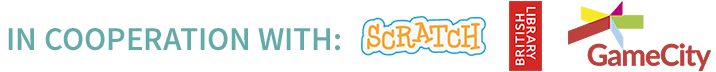
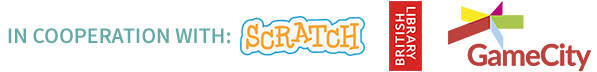
Text and Design Update

diff --git a/index2.html b/index2.html
@@ -109,26 +109,28 @@
       <!-- Main component for a primary marketing message or call to action -->
       <div class="row">
         <div class="col-md-12">
-          <h1><a id="about">ABOUT #AliceGameJam</a></h1>
+          <h1><a id="about">ABOUT</a></h1>
         </div>
         <div class="col-md-4">
+		  <h2>#AliceGameJam</h2>
+		  <p>Explore the world of Alice in Wonderland and her friends virtually with Pocket Code and Scratch at the #AliceGameJam during the Computer Science Education Week between <b>December 7th and December 13th 2015</b>. Create your own program about Alice and get the chance of being part of something bigger.</p>
           <h2>150 years of Alice in Wonderland</h2>
-          <p>Lewis Carroll’s Alice in Wonderland was published in 1865. Since then, the adventures of Alice, the White Rabbit and the other fabulous figures in the book have fascinated young and old for 150 years. Now, between the 7th and 13th of December 2015, the Alice Game Jam invites you to recreate the spirit of this magical world by creating fun new games about Alice and her friends.</p>
-		  <p>You don’t need any previous experience producing games or coding. Whether with Pocket Code on your Smartphone or with Scratch on your Computer you will learn programming easily in our tutorials and by exploring what others have created. You’ll then be able to share your own real game or animation with your friends and the whole world!</p>
-          <p>Alice follows a white rabbit into its hole and comes to a magical, imaginative, and exciting world. She experiences some gorgeous and thrilling adventures on her journey through this wonderland, meeting new and marvelous creatures like the Mad Hatter or the Cheshire Cat...</p>
+          <p>Lewis Carroll’s Alice in Wonderland was published in 1865. Since then, the adventures of Alice, the White Rabbit and the other fabulous figures in the book have fascinated young and old for 150 years. Now, between the <b>7th and 13th of December 2015</b>, the Alice Game Jam invites you to recreate the spirit of this magical world by creating fun new games about Alice and her friends.</p>
+          <h2>Abstract</h2>
+		  <p>Alice follows a white rabbit into its hole and comes to a magical, imaginative, and exciting world. She experiences some gorgeous and thrilling adventures on her journey through this wonderland, meeting new and marvelous creatures like the Mad Hatter or the Cheshire Cat...</p>
         </div>
         <div class="col-md-4">
-          <h2>Pocket Code</h2>
+		  <div class="intext_logo"><img src="img/pc-headline.png"></img></div>
           <p>With Pocket Code we aim to inspire teenagers to create their own games and interactive stories directly on their smartphones without any previous knowledge in a "Lego-Style" way of programming. What theme for our first Game Jam could be better than Alice in Wonderland?</p>
-          <div class="graphic"><a href="http://www.pocketcode.org" target="blank_"><img width="250" src="img/modul1-device.png"/></a></div>
-          <h2>Pocket Code available for free at</h2>
+          <div class="decor"><a href="http://www.pocketcode.org" target="blank_"><img src="img/modul1-device.png"/ width="100%"></a></div>
+          <h3>Pocket Code available for free at</h3>
           <div class="play-btn"><a target="_blank" href="http://catrob.at/pc"><img src="img/GooglePlay.png"/></a></div>      
        </div>
         <div class="col-md-4">
-		          <h2>Scratch</h2>
-          <p>The famous visual programming framework enables children and teenagers to create their own games online in an easy to use way. Users all over the world use Scratch to learn coding and get creative by programming their own games and animations just within minutes. </p>
-		  <p>Try it out and create your first games and animations with Scratch at <a href="https://scratch.mit.edu/" target="blank_">scratch.mit.edu</a>.</p>
-          <div class="graphic"><a href="https://scratch.mit.edu/" target="blank_"><img width ="250" src="img/scratch-cat.png"/></a></div>
+		  <div class="intext_logo"><img src="img/scratch-headline.png" ></img></div>
+          <p>Are you already a Scratch user? Explore the possibilities of Scratch to create your personal story of Alice and her friends. There are thousands of possibilities to design your very own Alice-themed animation or game just within minutes and to share it afterwards with your friends and the whole world. </p>
+		  <p>Get online and bring Alice alive at <a href="https://scratch.mit.edu/" target="blank_">scratch.mit.edu</a>.</p>
+          <div class="decor"><a href="https://scratch.mit.edu/" target="blank_"><img src="img/scratch-cat.png"/ width="100%"></a></div>
 
         </div>
       </div>
@@ -254,21 +256,10 @@
       </div>
       <div class="row decor">
         <div class="col-md-12 graphic">
-          <div class="separator">
             <img src="img/dots.png"/>
-          </div>
         </div>
       </div>      
       <div class="row decor">
-        <div class="col-md-12 tea">
-          <span class="luck">We wish you lots of fun during the<br />#AliceGameJam in December 2015.
-	  <br />
-	  <br />
-	  Please help us spread the news!
-	  <br />
-	  <br />
-	</span>
-        </div>
         <div class="col-md-12 graphic tea">
           <img src="img/teaparty.png"/>        
         </div>        

diff --git a/css/main.css b/css/main.css
@@ -161,6 +161,7 @@ body {
   .container {
     width: 100%;
   }
+
 }
 @media (min-width: 992px) {
   .foot-mob {
@@ -170,7 +171,8 @@ body {
     display: block;
   }
   .graphic {
-  }   
+  } 
+ 
 }
 
 .graphic img {
@@ -301,7 +303,7 @@ body {
   display: flex;
   flex-wrap: wrap;
   justify-content: space-around;	
-	margin: 4em 0 8em;
+	margin: 4em 0 3em;
 }
 .logos div {
 	order: 1;
@@ -440,4 +442,19 @@ body {
 }
 .partner_section img{
 	margin: 1em 1em 1em 1em;
+}
+.intext_logo img{
+	max-width: 90%;
+} 
+
+.intext_logo h2 {
+	
+	margin-top: 0em;
+	vertical-align: center;
+}
+
+.intext_logo {
+  height: 80px;
+  line-height: 80px;
+  vertical-align: middle;
 }
